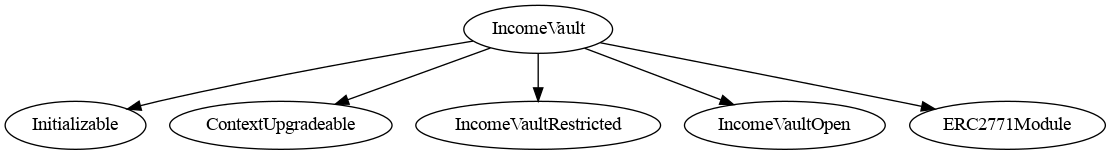
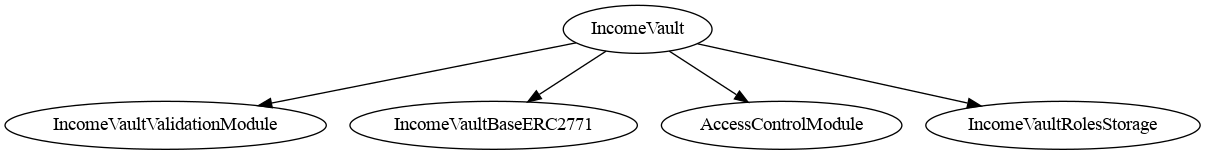
docs: regenerate the Surya schema for the current src/ (6 -> 21 per type)

diff --git a/doc/surya/surya_report/surya_report_IncomeVaultOwnable2Step.sol.md b/doc/surya/surya_report/surya_report_IncomeVaultOwnable2Step.sol.md
@@ -5,7 +5,7 @@
 
 |  File Name  |  SHA-1 Hash  |
 |-------------|--------------|
-| ./deployment/IncomeVault.sol | 13f4d611a5dac650aae2720df488e06e8bf1290c |
+| ./deployment/IncomeVaultOwnable2Step.sol | f3b2b1bd3aa3b3c493521a48a0089cd874355001 |
 
 
 ### Contracts Description Table
@@ -15,22 +15,22 @@
 |:----------:|:-------------------:|:----------------:|:----------------:|:---------------:|
 |     └      |  **Function Name**  |  **Visibility**  |  **Mutability**  |  **Modifiers**  |
 ||||||
-| **IncomeVault** | Implementation | IncomeVaultValidationModule, IncomeVaultBaseERC2771, AccessControlModule, IncomeVaultRolesStorage |||
+| **IncomeVaultOwnable2Step** | Implementation | IncomeVaultValidationModule, IncomeVaultBaseERC2771, Ownable2StepUpgradeable, Ownable2StepERC165Module |||
 | └ | <Constructor> | Public ❗ | 🛑  | IncomeVaultBaseERC2771 |
 | └ | initialize | Public ❗ | 🛑  | initializer |
 | └ | supportsInterface | Public ❗ |   |NO❗ |
 | └ | _msgSender | Internal 🔒 |   | |
 | └ | _msgData | Internal 🔒 |   | |
 | └ | _contextSuffixLength | Internal 🔒 |   | |
-| └ | _authorizeDeposit | Internal 🔒 |   | onlyRole |
-| └ | _authorizeWithdraw | Internal 🔒 |   | onlyRole |
-| └ | _authorizeDistribute | Internal 🔒 |   | onlyRole |
-| └ | _authorizeOperator | Internal 🔒 |   | onlyRole |
-| └ | _authorizeSnapshotSourceManagement | Internal 🔒 |   | onlyRole |
-| └ | _authorizeRuleEngineManagement | Internal 🔒 |   | onlyRole |
-| └ | _authorizePause | Internal 🔒 |   | onlyRole |
-| └ | _authorizeDeactivate | Internal 🔒 |   | onlyRole |
-| └ | _authorizeFreeze | Internal 🔒 |   | onlyRole |
+| └ | _authorizeDeposit | Internal 🔒 |   | onlyOwner |
+| └ | _authorizeWithdraw | Internal 🔒 |   | onlyOwner |
+| └ | _authorizeDistribute | Internal 🔒 |   | onlyOwner |
+| └ | _authorizeOperator | Internal 🔒 |   | onlyOwner |
+| └ | _authorizeSnapshotSourceManagement | Internal 🔒 |   | onlyOwner |
+| └ | _authorizeRuleEngineManagement | Internal 🔒 |   | onlyOwner |
+| └ | _authorizePause | Internal 🔒 |   | onlyOwner |
+| └ | _authorizeDeactivate | Internal 🔒 |   | onlyOwner |
+| └ | _authorizeFreeze | Internal 🔒 |   | onlyOwner |
 
 
 ### Legend

diff --git a/doc/surya/surya_report/surya_report_IIncomeVault.sol.md b/doc/surya/surya_report/surya_report_IIncomeVault.sol.md
@@ -1,0 +1,49 @@
+## Sūrya's Description Report
+
+### Files Description Table
+
+
+|  File Name  |  SHA-1 Hash  |
+|-------------|--------------|
+| ./interfaces/IIncomeVault.sol | 945d7eda1636aeeeee8bb6d9b4d6ada9b3ba1c76 |
+
+
+### Contracts Description Table
+
+
+|  Contract  |         Type        |       Bases      |                  |                 |
+|:----------:|:-------------------:|:----------------:|:----------------:|:---------------:|
+|     └      |  **Function Name**  |  **Visibility**  |  **Mutability**  |  **Modifiers**  |
+||||||
+| **IIncomeVault** | Interface |  |||
+| └ | claimDividend | External ❗ | 🛑  |NO❗ |
+| └ | claimDividendFor | External ❗ | 🛑  |NO❗ |
+| └ | claimDividendBatch | External ❗ | 🛑  |NO❗ |
+| └ | claimDividendBatchFor | External ❗ | 🛑  |NO❗ |
+| └ | deposit | External ❗ | 🛑  |NO❗ |
+| └ | depositBatch | External ❗ | 🛑  |NO❗ |
+| └ | withdraw | External ❗ | 🛑  |NO❗ |
+| └ | withdrawAll | External ❗ | 🛑  |NO❗ |
+| └ | distributeDividend | External ❗ | 🛑  |NO❗ |
+| └ | distributeDividendBestEffort | External ❗ | 🛑  |NO❗ |
+| └ | setStatusClaim | External ❗ | 🛑  |NO❗ |
+| └ | setTimeLimitToWithdraw | External ❗ | 🛑  |NO❗ |
+| └ | validateTime | External ❗ |   |NO❗ |
+| └ | validateTimeBatch | External ❗ |   |NO❗ |
+| └ | validateTimeCode | External ❗ |   |NO❗ |
+| └ | ERC20TokenPayment | External ❗ |   |NO❗ |
+| └ | claimedDividend | External ❗ |   |NO❗ |
+| └ | segregatedDividend | External ❗ |   |NO❗ |
+| └ | segregatedClaim | External ❗ |   |NO❗ |
+| └ | paidDividend | External ❗ |   |NO❗ |
+| └ | unclaimedDividend | External ❗ |   |NO❗ |
+| └ | openClaimCount | External ❗ |   |NO❗ |
+| └ | timeLimitToWithdraw | External ❗ |   |NO❗ |
+
+
+### Legend
+
+|  Symbol  |  Meaning  |
+|:--------:|-----------|
+|    🛑    | Function can modify state |
+|    💵    | Function is payable |

diff --git a/doc/surya/surya_report/surya_report_IncomeVaultRestricted.sol.md b/doc/surya/surya_report/surya_report_IncomeVaultRestricted.sol.md
@@ -5,7 +5,7 @@
 
 |  File Name  |  SHA-1 Hash  |
 |-------------|--------------|
-| ./public/IncomeVaultRestricted.sol | 56748e23d3fd1d849f9db9e5264937b62c4c389c |
+| ./public/IncomeVaultRestricted.sol | 93d0d2ecfc87313ca8f8dd1bbd125d333a06e15d |
 
 
 ### Contracts Description Table
@@ -15,14 +15,21 @@
 |:----------:|:-------------------:|:----------------:|:----------------:|:---------------:|
 |     └      |  **Function Name**  |  **Visibility**  |  **Mutability**  |  **Modifiers**  |
 ||||||
-| **IncomeVaultRestricted** | Implementation | IncomeVaultValidationModule, IncomeVaultInternal |||
+| **IncomeVaultRestricted** | Implementation | IncomeVaultValidationCore, IncomeVaultSnapshotCore, ContextUpgradeable, IncomeVaultInternal, ReentrancyGuardTransient |||
 | └ | __IncomeVaultRestricted_init_unchained | Internal 🔒 | 🛑  | onlyInitializing |
-| └ | deposit | Public ❗ | 🛑  | onlyRole |
-| └ | withdraw | Public ❗ | 🛑  | onlyRole |
-| └ | withdrawAll | Public ❗ | 🛑  | onlyRole |
-| └ | distributeDividend | Public ❗ | 🛑  | onlyRole |
-| └ | setStatusClaim | Public ❗ | 🛑  | onlyRole |
-| └ | setTimeLimitToWithdraw | Public ❗ | 🛑  | onlyRole |
+| └ | deposit | Public ❗ | 🛑  | onlyDepositManager |
+| └ | depositBatch | Public ❗ | 🛑  | onlyDepositManager |
+| └ | withdraw | Public ❗ | 🛑  | onlyWithdrawManager |
+| └ | withdrawAll | Public ❗ | 🛑  | onlyWithdrawManager |
+| └ | distributeDividend | Public ❗ | 🛑  | onlyDistributeManager |
+| └ | distributeDividendBestEffort | Public ❗ | 🛑  | nonReentrant onlyDistributeManager |
+| └ | transferDividendSelf | Public ❗ | 🛑  |NO❗ |
+| └ | setStatusClaim | Public ❗ | 🛑  | onlyVaultOperator |
+| └ | setTimeLimitToWithdraw | Public ❗ | 🛑  | onlyVaultOperator |
+| └ | _authorizeDeposit | Internal 🔒 |   | |
+| └ | _authorizeWithdraw | Internal 🔒 |   | |
+| └ | _authorizeDistribute | Internal 🔒 |   | |
+| └ | _authorizeOperator | Internal 🔒 |   | |
 
 
 ### Legend

diff --git a/doc/surya/surya_report/surya_report_IncomeVaultInternal.sol.md b/doc/surya/surya_report/surya_report_IncomeVaultInternal.sol.md
@@ -5,7 +5,7 @@
 
 |  File Name  |  SHA-1 Hash  |
 |-------------|--------------|
-| ./libraries/IncomeVaultInternal.sol | b831637aceba115b93cbe90d1152b1d05f2ea3da |
+| ./modules/IncomeVaultInternal.sol | 2f78f7afe0e91d0052b8b2e64d4d9608ac253bf5 |
 
 
 ### Contracts Description Table
@@ -15,19 +15,25 @@
 |:----------:|:-------------------:|:----------------:|:----------------:|:---------------:|
 |     └      |  **Function Name**  |  **Visibility**  |  **Mutability**  |  **Modifiers**  |
 ||||||
-| **IncomeVaultInternal** | Implementation | IncomeVaultInvariantStorage |||
-| └ | snapshotEngine | Public ❗ |   |NO❗ |
+| **IncomeVaultInternal** | Implementation | IncomeVaultInvariantStorage, IIncomeVault |||
 | └ | ERC20TokenPayment | Public ❗ |   |NO❗ |
 | └ | claimedDividend | Public ❗ |   |NO❗ |
 | └ | segregatedDividend | Public ❗ |   |NO❗ |
 | └ | segregatedClaim | Public ❗ |   |NO❗ |
+| └ | paidDividend | Public ❗ |   |NO❗ |
+| └ | unclaimedDividend | Public ❗ |   |NO❗ |
+| └ | openClaimCount | Public ❗ |   |NO❗ |
 | └ | timeLimitToWithdraw | Public ❗ |   |NO❗ |
 | └ | _transferDividend | Internal 🔒 | 🛑  | |
-| └ | _setSnapshotEngine | Internal 🔒 | 🛑  | |
 | └ | _setERC20TokenPayment | Internal 🔒 | 🛑  | |
 | └ | _setTimeLimitToWithdraw | Internal 🔒 | 🛑  | |
+| └ | _deposit | Internal 🔒 | 🛑  | |
+| └ | _setStatusClaim | Internal 🔒 | 🛑  | |
+| └ | _unclaimed | Internal 🔒 |   | |
 | └ | _computeDividendBatch | Internal 🔒 |   | |
 | └ | _computeDividend | Internal 🔒 |   | |
+| └ | _revertOnInvalidTime | Internal 🔒 |   | |
+| └ | _timeCode | Internal 🔒 |   | |
 | └ | _getIncomeVaultInternalStorage | Internal 🔒 |   | |
 
 

diff --git a/doc/surya/surya_report/surya_report_IncomeVaultValidationModule.sol.md b/doc/surya/surya_report/surya_report_IncomeVaultValidationModule.sol.md
@@ -5,7 +5,7 @@
 
 |  File Name  |  SHA-1 Hash  |
 |-------------|--------------|
-| ./modules/IncomeVaultValidationModule.sol | d02cedab3be325aa3620d6ddc1afcf93c677361c |
+| ./modules/IncomeVaultValidationModule.sol | 21fe5f150b450330f495152879c605f96f6e7a8c |
 
 
 ### Contracts Description Table
@@ -15,15 +15,13 @@
 |:----------:|:-------------------:|:----------------:|:----------------:|:---------------:|
 |     └      |  **Function Name**  |  **Visibility**  |  **Mutability**  |  **Modifiers**  |
 ||||||
-| **IncomeVaultValidationModule** | Implementation | AccessControlModule, PauseModule, EnforcementModule, ValidationModuleRuleEngineInternal, IncomeVaultInvariantStorage |||
+| **IncomeVaultValidationModule** | Implementation | IncomeVaultValidationCore, PauseModule, EnforcementModule, ValidationModuleRuleEngineInternal, IncomeVaultInvariantStorage |||
 | └ | __IncomeVaultValidation_init_unchained | Internal 🔒 | 🛑  | onlyInitializing |
-| └ | setRuleEngine | Public ❗ | 🛑  | onlyRole |
+| └ | setRuleEngine | Public ❗ | 🛑  | onlyRuleEngineManager |
 | └ | canTransfer | Public ❗ |   |NO❗ |
 | └ | detectTransferRestriction | Public ❗ |   |NO❗ |
 | └ | messageForTransferRestriction | Public ❗ |   |NO❗ |
-| └ | _authorizePause | Internal 🔒 | 🛑  | onlyRole |
-| └ | _authorizeDeactivate | Internal 🔒 | 🛑  | onlyRole |
-| └ | _authorizeFreeze | Internal 🔒 | 🛑  | onlyRole |
+| └ | _authorizeRuleEngineManagement | Internal 🔒 |   | |
 | └ | _validateTransfer | Internal 🔒 |   | |
 
 

diff --git a/doc/README.md b/doc/README.md
@@ -758,6 +758,18 @@ This matters beyond taste: **a trusted forwarder can name any `_msgSender()`**, 
 
 ![surya_inheritance_IncomeVault](./surya/surya_inheritance/surya_inheritance_IncomeVault.sol.png)
 
+#### IncomeVaultOwnable2Step
+
+The other deployment variant, for comparison: the same distribution logic under a single ERC-173 owner instead of roles.
+
+![surya_inheritance_IncomeVaultOwnable2Step](./surya/surya_inheritance/surya_inheritance_IncomeVaultOwnable2Step.sol.png)
+
+#### IncomeVaultBaseERC2771
+
+The base both deployments inherit. `IncomeVaultBase` sits below it and carries no meta-transaction policy at all.
+
+![surya_inheritance_IncomeVaultBaseERC2771](./surya/surya_inheritance/surya_inheritance_IncomeVaultBaseERC2771.sol.png)
+
 #### IncomeVaultValidationModule
 
 ![surya_inheritance_IncomeVaultValidationModule](./surya/surya_inheritance/surya_inheritance_IncomeVaultValidationModule.sol.png)
@@ -782,4 +794,4 @@ This matters beyond taste: **a trusted forwarder can name any `_msgSender()`**, 
 
 ### Report
 
-A markdown report per contract (functions, visibility, modifiers) is available in [doc/surya/surya_report](./surya/surya_report).
+A markdown report per contract (functions, visibility, modifiers) is available in [doc/surya/surya_report](./surya/surya_report) — one per file under `src/`, 21 in total. The call graphs and inheritance graphs in [doc/surya](./surya) cover the same 21; only a few are embedded above.

diff --git a/doc/surya/surya_report/surya_report_IncomeVaultOpen.sol.md b/doc/surya/surya_report/surya_report_IncomeVaultOpen.sol.md
@@ -5,7 +5,7 @@
 
 |  File Name  |  SHA-1 Hash  |
 |-------------|--------------|
-| ./public/IncomeVaultOpen.sol | 191c04e4c2769202aa6971894c8936bbaa146fb1 |
+| ./public/IncomeVaultOpen.sol | 24be5507a7317b47d4f480911a6330568595427e |
 
 
 ### Contracts Description Table
@@ -15,12 +15,16 @@
 |:----------:|:-------------------:|:----------------:|:----------------:|:---------------:|
 |     └      |  **Function Name**  |  **Visibility**  |  **Mutability**  |  **Modifiers**  |
 ||||||
-| **IncomeVaultOpen** | Implementation | ReentrancyGuardTransient, IncomeVaultValidationModule, IncomeVaultInternal |||
+| **IncomeVaultOpen** | Implementation | IncomeVaultValidationCore, IncomeVaultSnapshotCore, ERC7741Module, ReentrancyGuardTransient |||
 | └ | claimDividend | Public ❗ | 🛑  | nonReentrant |
+| └ | claimDividendFor | Public ❗ | 🛑  | nonReentrant |
+| └ | claimDividendBatchFor | Public ❗ | 🛑  | nonReentrant |
 | └ | claimDividendBatch | Public ❗ | 🛑  | nonReentrant |
 | └ | validateTimeCode | Public ❗ |   |NO❗ |
 | └ | validateTime | Public ❗ |   |NO❗ |
 | └ | validateTimeBatch | Public ❗ |   |NO❗ |
+| └ | _claimDividend | Internal 🔒 | 🛑  | |
+| └ | _claimDividendBatch | Internal 🔒 | 🛑  | |
 
 
 ### Legend

diff --git a/doc/surya/surya_report/surya_report_IncomeVaultSnapshotModule.sol.md b/doc/surya/surya_report/surya_report_IncomeVaultSnapshotModule.sol.md
@@ -1,0 +1,34 @@
+## Sūrya's Description Report
+
+### Files Description Table
+
+
+|  File Name  |  SHA-1 Hash  |
+|-------------|--------------|
+| ./modules/IncomeVaultSnapshotModule.sol | 852f2f2231a558e3b1eb004a92f5c6193f23e82d |
+
+
+### Contracts Description Table
+
+
+|  Contract  |         Type        |       Bases      |                  |                 |
+|:----------:|:-------------------:|:----------------:|:----------------:|:---------------:|
+|     └      |  **Function Name**  |  **Visibility**  |  **Mutability**  |  **Modifiers**  |
+||||||
+| **IncomeVaultSnapshotModule** | Implementation | IncomeVaultSnapshotCore, IncomeVaultInternal |||
+| └ | setDividendSnapshotSource | Public ❗ | 🛑  | onlySnapshotSourceManager |
+| └ | dividendSnapshotSource | Public ❗ |   |NO❗ |
+| └ | _setDividendSnapshotSource | Internal 🔒 | 🛑  | |
+| └ | _snapshotInfo | Internal 🔒 |   | |
+| └ | _snapshotInfoBatch | Internal 🔒 |   | |
+| └ | _snapshotInfoBatch | Internal 🔒 |   | |
+| └ | _authorizeSnapshotSourceManagement | Internal 🔒 |   | |
+| └ | _getSnapshotSourceStorage | Internal 🔒 |   | |
+
+
+### Legend
+
+|  Symbol  |  Meaning  |
+|:--------:|-----------|
+|    🛑    | Function can modify state |
+|    💵    | Function is payable |

diff --git a/doc/surya/surya_report/surya_report_ERC7741Module.sol.md b/doc/surya/surya_report/surya_report_ERC7741Module.sol.md
@@ -5,7 +5,7 @@
 
 |  File Name  |  SHA-1 Hash  |
 |-------------|--------------|
-| ./storage/IncomeVaultInvariantStorage.sol | d3b1b609b486de6f09a3b65fbcb15607afe99479 |
+| ./modules/ERC7741Module.sol | 115b1c10b576d6b8730fd072060bdc8e0aa4fc81 |
 
 
 ### Contracts Description Table
@@ -15,7 +15,12 @@
 |:----------:|:-------------------:|:----------------:|:----------------:|:---------------:|
 |     └      |  **Function Name**  |  **Visibility**  |  **Mutability**  |  **Modifiers**  |
 ||||||
-| **IncomeVaultInvariantStorage** | Implementation |  |||
+| **ERC7741Module** | Implementation | EIP712Upgradeable, ContextUpgradeable, IncomeVaultOperatorModule, IncomeVaultInternal, IERC7741 |||
+| └ | authorizeOperator | Public ❗ | 🛑  |NO❗ |
+| └ | invalidateNonce | Public ❗ | 🛑  |NO❗ |
+| └ | authorizations | Public ❗ |   |NO❗ |
+| └ | DOMAIN_SEPARATOR | Public ❗ |   |NO❗ |
+| └ | _getERC7741ModuleStorage | Internal 🔒 |   | |
 
 
 ### Legend

diff --git a/doc/surya/surya_report/surya_report_IncomeVaultOperatorModule.sol.md b/doc/surya/surya_report/surya_report_IncomeVaultOperatorModule.sol.md
@@ -5,7 +5,7 @@
 
 |  File Name  |  SHA-1 Hash  |
 |-------------|--------------|
-| ./storage/IncomeVaultInvariantStorage.sol | d3b1b609b486de6f09a3b65fbcb15607afe99479 |
+| ./modules/IncomeVaultOperatorModule.sol | 43916bbbde62208a7ab9b6799b22c23480498432 |
 
 
 ### Contracts Description Table
@@ -15,7 +15,12 @@
 |:----------:|:-------------------:|:----------------:|:----------------:|:---------------:|
 |     └      |  **Function Name**  |  **Visibility**  |  **Mutability**  |  **Modifiers**  |
 ||||||
-| **IncomeVaultInvariantStorage** | Implementation |  |||
+| **IncomeVaultOperatorModule** | Implementation | ContextUpgradeable, IncomeVaultInvariantStorage, IERC7540Operator |||
+| └ | setOperator | Public ❗ | 🛑  |NO❗ |
+| └ | isOperator | Public ❗ |   |NO❗ |
+| └ | _setOperator | Internal 🔒 | 🛑  | |
+| └ | _requireHolderOrOperator | Internal 🔒 |   | |
+| └ | _getOperatorStorage | Internal 🔒 |   | |
 
 
 ### Legend

diff --git a/doc/surya/surya_report/surya_report_IncomeVaultBaseERC2771.sol.md b/doc/surya/surya_report/surya_report_IncomeVaultBaseERC2771.sol.md
@@ -5,7 +5,7 @@
 
 |  File Name  |  SHA-1 Hash  |
 |-------------|--------------|
-| ./storage/IncomeVaultInvariantStorage.sol | d3b1b609b486de6f09a3b65fbcb15607afe99479 |
+| ./IncomeVaultBaseERC2771.sol | f1775c8181ab32711ccdb08885baaf57cdb888f7 |
 
 
 ### Contracts Description Table
@@ -15,7 +15,11 @@
 |:----------:|:-------------------:|:----------------:|:----------------:|:---------------:|
 |     └      |  **Function Name**  |  **Visibility**  |  **Mutability**  |  **Modifiers**  |
 ||||||
-| **IncomeVaultInvariantStorage** | Implementation |  |||
+| **IncomeVaultBaseERC2771** | Implementation | IncomeVaultBase, ERC2771Module |||
+| └ | <Constructor> | Public ❗ | 🛑  | ERC2771Module |
+| └ | _msgSender | Internal 🔒 |   | |
+| └ | _msgData | Internal 🔒 |   | |
+| └ | _contextSuffixLength | Internal 🔒 |   | |
 
 
 ### Legend

diff --git a/doc/surya/surya_report/surya_report_IERC7741.sol.md b/doc/surya/surya_report/surya_report_IERC7741.sol.md
@@ -5,7 +5,7 @@
 
 |  File Name  |  SHA-1 Hash  |
 |-------------|--------------|
-| ./storage/IncomeVaultInvariantStorage.sol | d3b1b609b486de6f09a3b65fbcb15607afe99479 |
+| ./interfaces/IERC7741.sol | e66067dd0470fe3be485360fa267559830ec12aa |
 
 
 ### Contracts Description Table
@@ -15,7 +15,11 @@
 |:----------:|:-------------------:|:----------------:|:----------------:|:---------------:|
 |     └      |  **Function Name**  |  **Visibility**  |  **Mutability**  |  **Modifiers**  |
 ||||||
-| **IncomeVaultInvariantStorage** | Implementation |  |||
+| **IERC7741** | Interface |  |||
+| └ | authorizeOperator | External ❗ | 🛑  |NO❗ |
+| └ | invalidateNonce | External ❗ | 🛑  |NO❗ |
+| └ | authorizations | External ❗ |   |NO❗ |
+| └ | DOMAIN_SEPARATOR | External ❗ |   |NO❗ |
 
 
 ### Legend
